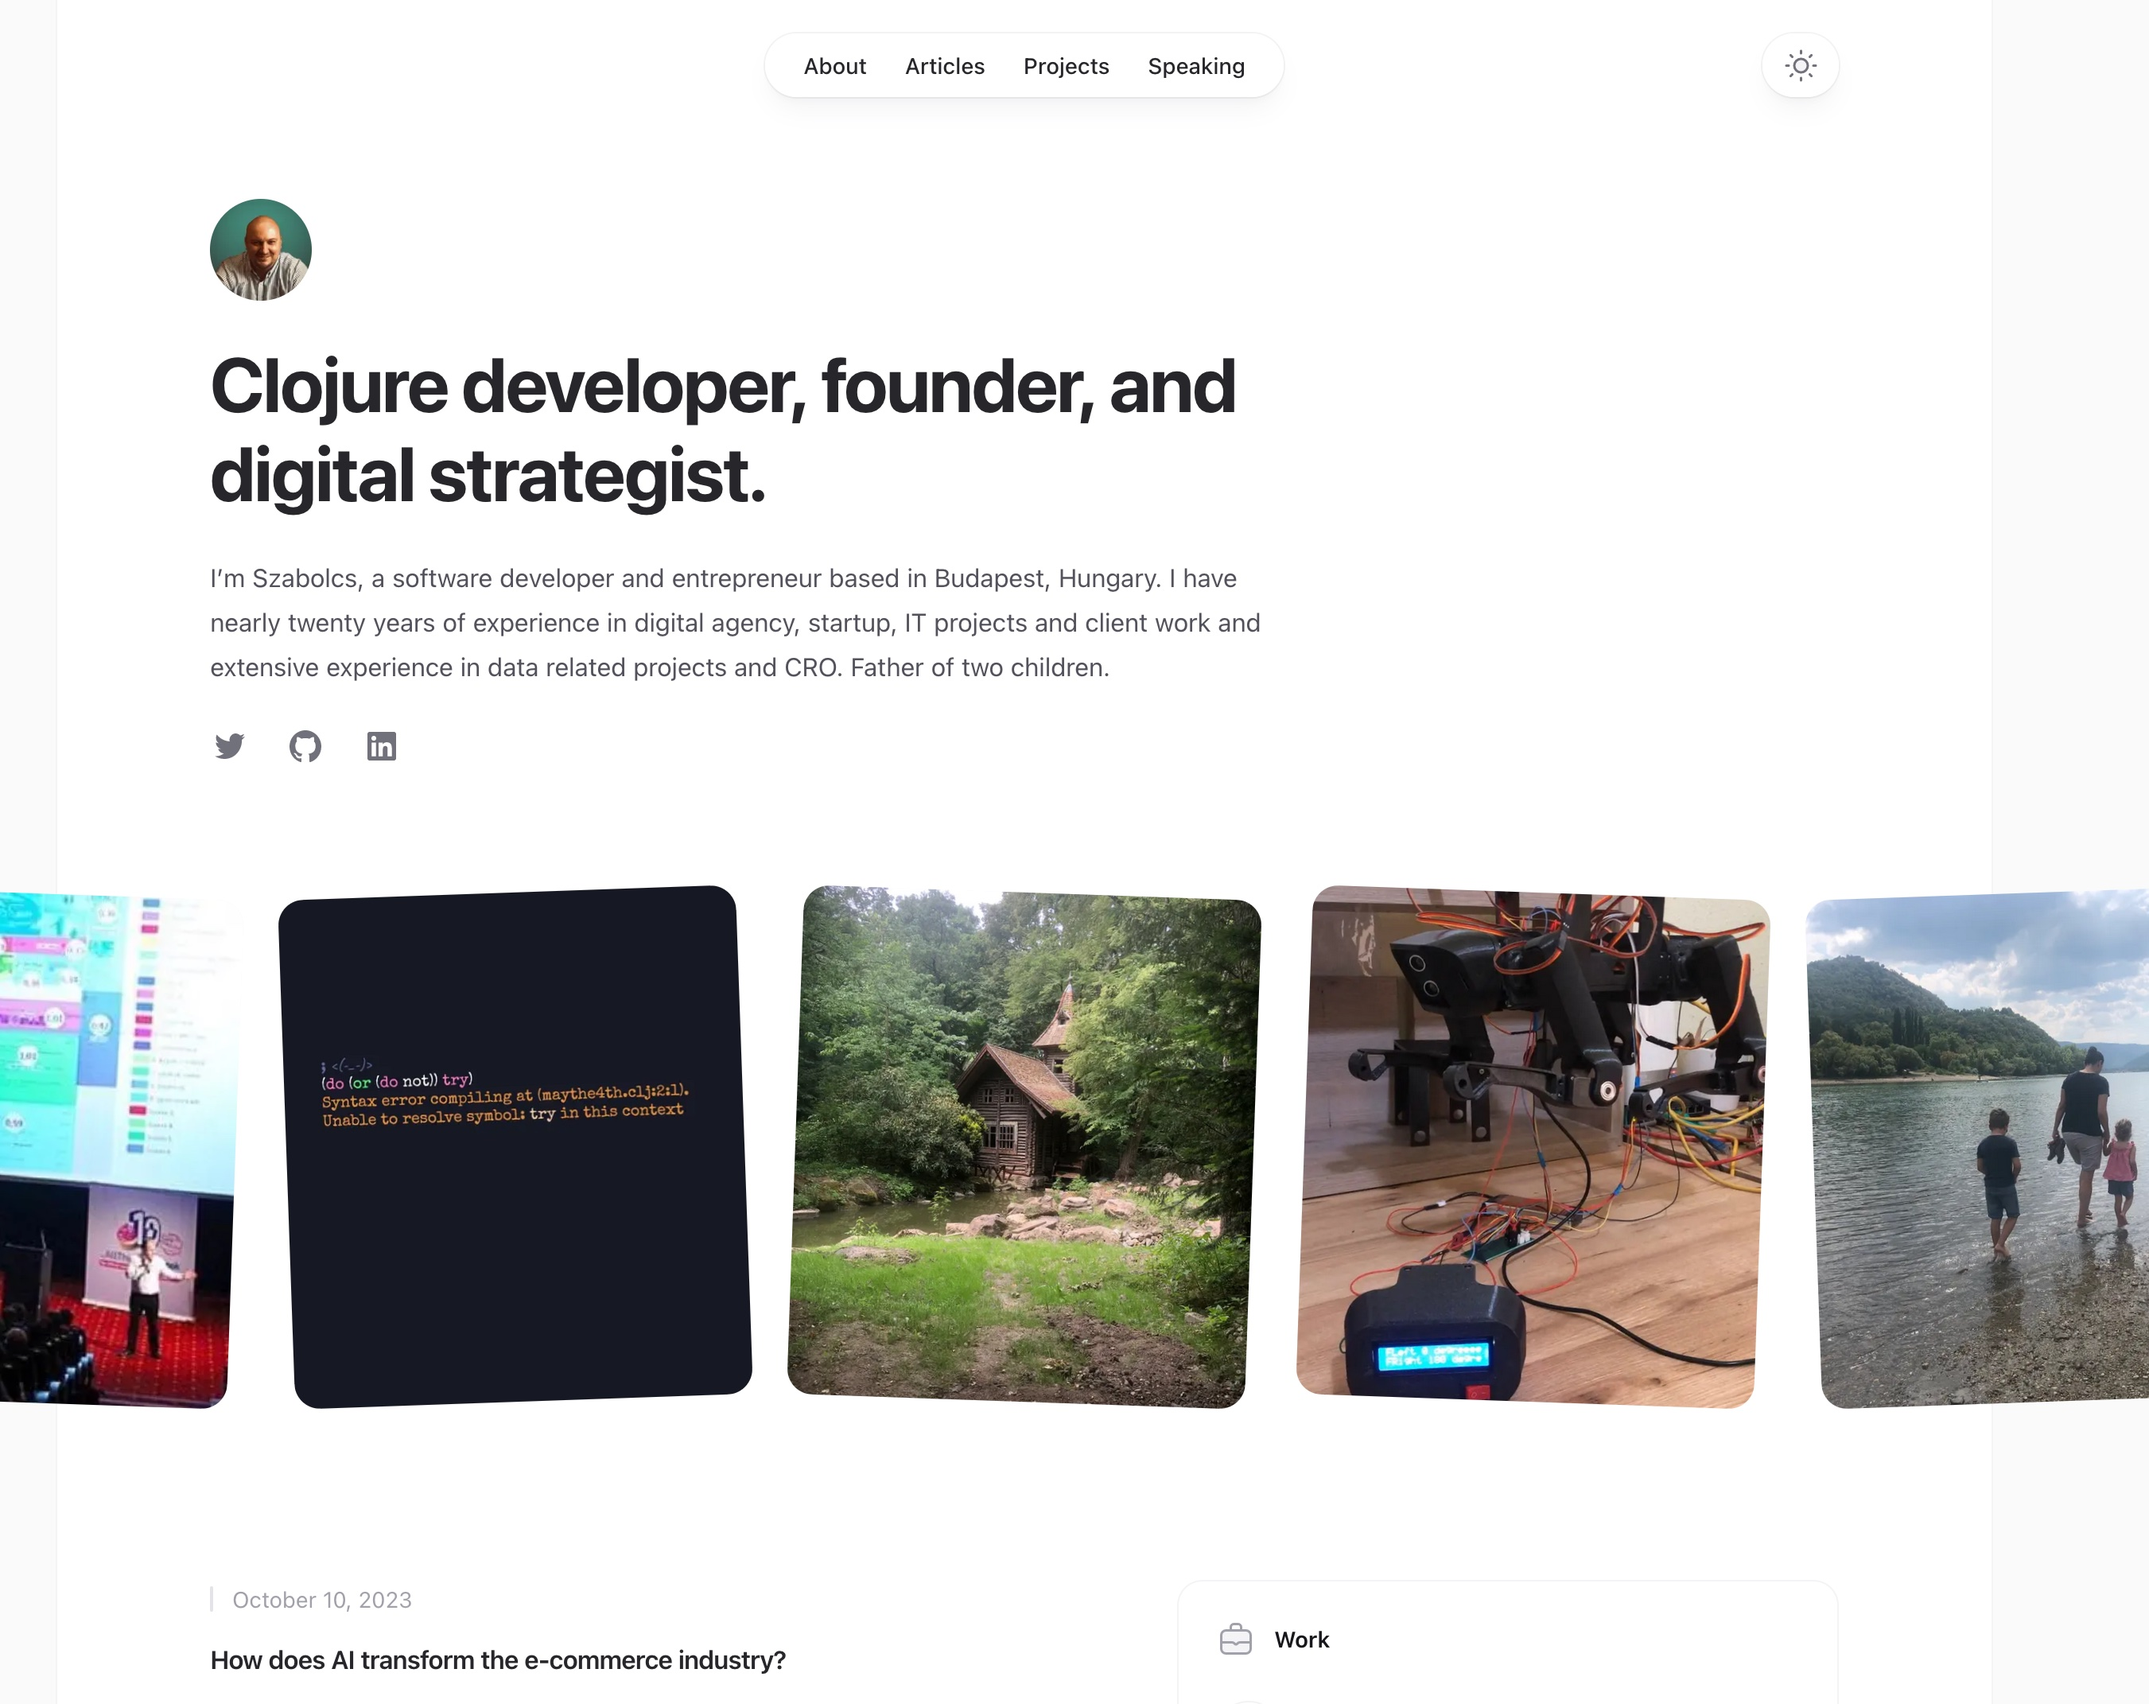
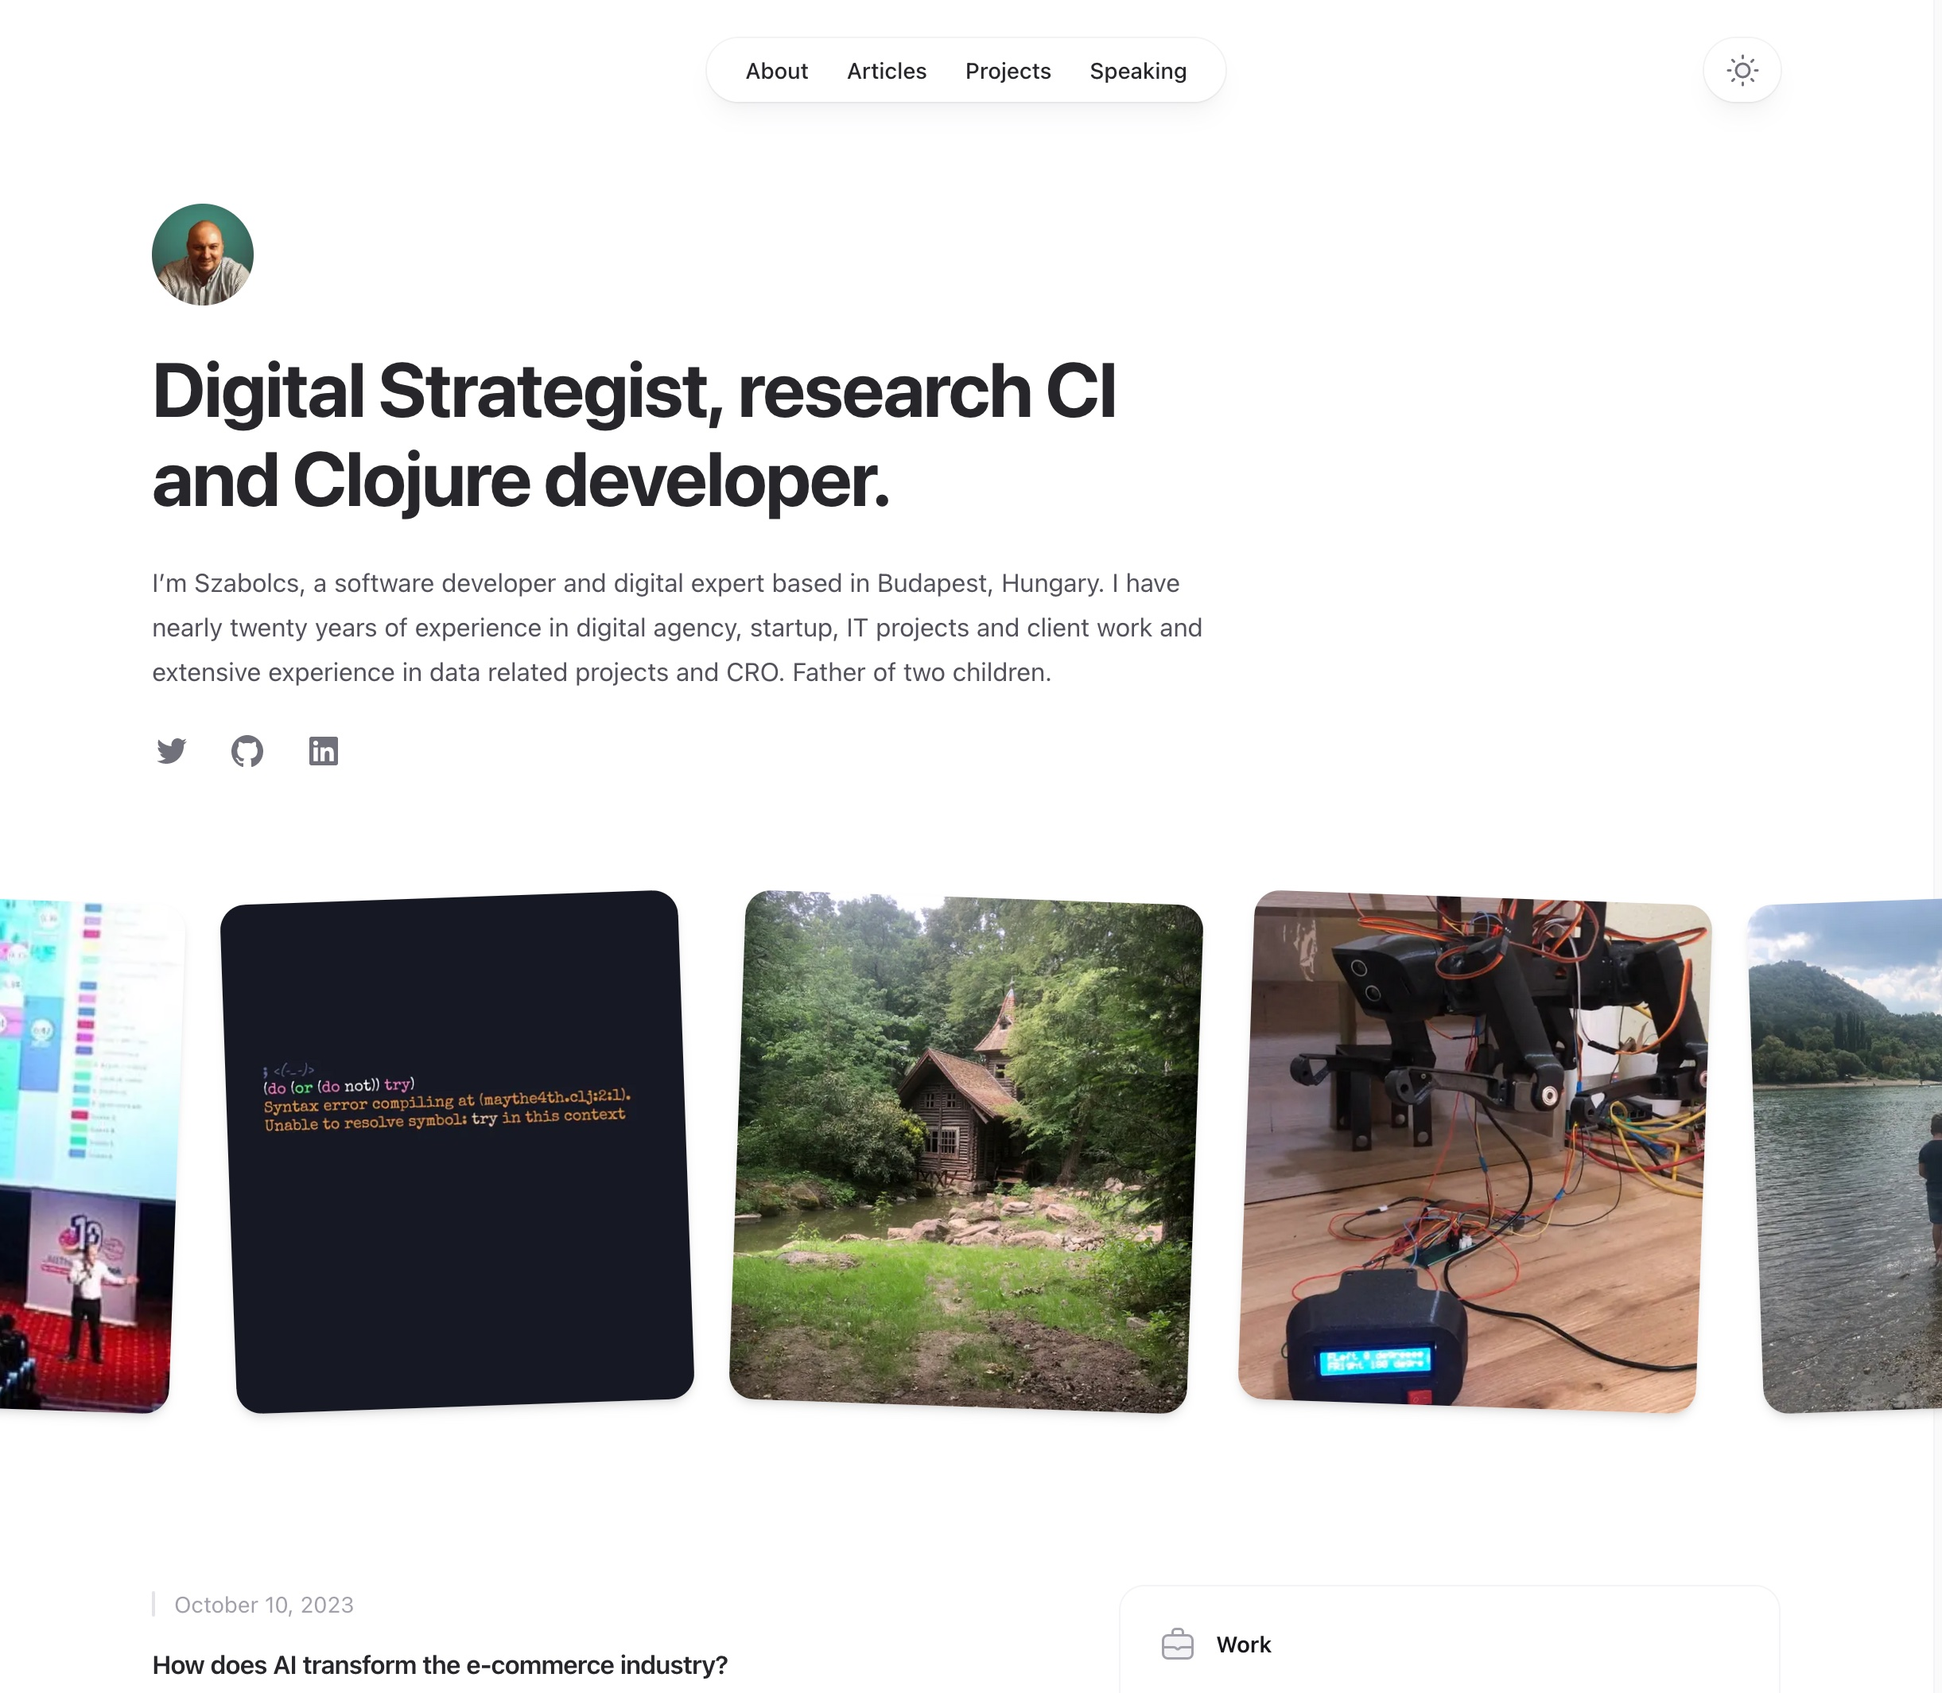
updated content, fix mobile navigation

diff --git a/src/app/speaking/page.tsx b/src/app/speaking/page.tsx
@@ -1,8 +1,11 @@
 import { type Metadata } from 'next'
+import Image, { StaticImageData } from 'next/image'
 
 import { Card } from '@/components/Card'
 import { Section } from '@/components/Section'
 import { SimpleLayout } from '@/components/SimpleLayout'
+import croImage from '@/images/photos/cro-book.png'
+
 
 function SpeakingSection({
   children,
@@ -40,6 +43,42 @@ function Appearance({
   )
 }
 
+function Books({
+  title,
+  description,
+  event,
+  imageSrc,
+  imageAlt,
+  imageWidth,
+  imageHeight,
+}: {
+  imageSrc: StaticImageData
+  imageAlt: string
+  imageWidth: number
+  imageHeight: number
+  title: string
+  description: string
+  event: string
+}) {
+  return (
+    <Card as="article">
+      <Card.Title as="h3" href="#">
+      {title}
+      </Card.Title>
+      <Card.Eyebrow decorate>{event}</Card.Eyebrow>
+      <Card.Description>{description}</Card.Description>
+      <Card.Image
+        src={imageSrc}
+        alt={imageAlt}
+        width={imageWidth}
+        height={imageHeight}
+        className="hover:opacity-100 opactity-100  w-3/4 h-auto dark:bg-transparent"
+      />
+    </Card>
+  )
+}
+
+
 export const metadata: Metadata = {
   title: 'Speaking',
   description:
@@ -62,12 +101,33 @@ export default function Speaking() {
             cta="Presentation link"
           />
           <Appearance
+            href="https://www.linkedin.com/in/baaderszabolcs/overlay/50329258/single-media-viewer/?profileId=ACoAAAIg294BADH1-YYSAMWke7ZVc7Zd-PAkdqE"
+            title="Conversion Optimization"
+            description="60 slides about CRO basics and strategy, build up large databases"
+            event="Email Marketing Meetup 2014"
+            cta="Presentation link/ LinkedIn"
+          />
+          <Appearance
             href="https://szinapszis.hu/hu/hirek/kutatas-2012-konferencia"
             title="Automatic, research-free web usability"
             description="They say that if you’re not embarassed by your first version, you’re doing it wrong. Well when you’re selling DIY space shuttle kits it turns out it’s a bit more complicated."
             event="Kutatas 2012"
             cta="Conference Summary page"
           />
+        </SpeakingSection>
+        </div>
+
+        <div className="space-y-20 pt-10 mt-10 bg-white dark:bg-transparent">
+        <SpeakingSection title="Books"> 
+          <Books
+            title="Conversion Optimization Book"
+            description="The first Hungarian book on conversion optimization techniques, featuring media files and eye-tracking results, is now outdated and no longer accessible."
+            event="Bader Szabolcs, 2014, 150 pages + CD"
+            imageSrc={croImage}
+            imageAlt="Conversion Optimization Book"
+            imageWidth={533} 
+            imageHeight={357} 
+          /> 
         </SpeakingSection>
         
       </div>

diff --git a/src/components/Card.tsx b/src/components/Card.tsx
@@ -1,5 +1,15 @@
 import Link from 'next/link'
 import clsx from 'clsx'
+import Image, { StaticImageData } from 'next/image'
+
+interface CardImageProps {
+  src: StaticImageData; 
+  alt: string; 
+  className?: string; 
+  width: number | `${number}`;
+  height: number | `${number}`;
+}
+
 
 function ChevronRightIcon(props: React.ComponentPropsWithoutRef<'svg'>) {
   return (
@@ -39,7 +49,7 @@ Card.Link = function CardLink({
 }: React.ComponentPropsWithoutRef<typeof Link>) {
   return (
     <>
-      <div className="absolute -inset-x-4 -inset-y-6 z-0 scale-95 bg-zinc-50 opacity-0 transition group-hover:scale-100 group-hover:opacity-100 dark:bg-zinc-800/50 sm:-inset-x-6 sm:rounded-2xl" />
+      <div className="absolute -inset-x-4 -inset-y-6 z-1 scale-95 bg-zinc-50 opacity-0 transition group-hover:scale-100 group-hover:opacity-100 dark:bg-zinc-800/50 sm:-inset-x-6 sm:rounded-2xl" />
       <Link {...props}>
         <span className="absolute -inset-x-4 -inset-y-6 z-20 sm:-inset-x-6 sm:rounded-2xl" />
         <span className="relative z-10">{children}</span>
@@ -47,6 +57,33 @@ Card.Link = function CardLink({
     </>
   )
 }
+
+
+Card.Image = function CardImage({
+  src,
+  alt,
+  width,
+  height,
+  className,
+  ...props
+}: CardImageProps) {
+  return (
+    <div className={clsx("z-0 lg:pl-20", className)}>
+      <div className="hover:opacity-100 opactity-100 max-w-xs px-2.5 lg:max-w-none">
+        <Image
+          src={src}
+          alt={alt}
+          width={width}
+          height={height}
+          className="rounded-2x  object-cover dark:bg-transparent mt-7"
+          {...props} // Spread any other image-specific props
+        />
+      </div>
+    </div>
+  )
+}
+
+
 
 Card.Title = function CardTitle<T extends React.ElementType = 'h2'>({
   as,

diff --git a/src/app/about/page.tsx b/src/app/about/page.tsx
@@ -80,7 +80,7 @@ export default function About() {
             My expertise spans across data analytics and Conversion Rate Optimization (CRO), with a distinct ability to bridge communication between developers and the business realm. My development technology stack is rooted in Clojure and Python, showcasing my technical acumen in the field.
             </p>
             <p>
-            I am also very interested in something called Artificial Intelligence (AI), which is like teaching computers to think and learn like humans. It&apos;s amazing to see how AI can help online shops sell more products and understand what customers like and other parts of this field.
+            Since 2016, there has been a significant evolution in a field known as Artificial Intelligence (AI), particularly in developing what may be termed real intelligence. For example AI evolve to collaborate more effectively with humans, autonomy, sophisticated decision making. It is fascinating to consider the progress in AI that contributes to various sectors.
             </p>
             <p>
             I love thinking of new ways to solve problems, making rough sketches of ideas (that&apos;s called prototyping), and seeing those ideas come to life. It&apos;s all about helping these small and big companies find their way to success, and it feels great to see them thrive!

diff --git a/src/app/page.tsx b/src/app/page.tsx
@@ -247,7 +247,7 @@ function Photos() {
           <div
             key={image.src}
             className={clsx(
-              'relative aspect-[9/10] w-44 flex-none overflow-hidden rounded-xl bg-zinc-100 dark:bg-zinc-800 sm:w-72 sm:rounded-2xl',
+              'relative aspect-[9/10] w-44 flex-none overflow-hidden rounded-xl bg-zinc-100 dark:bg-zinc-800 sm:w-72 sm:rounded-2xl hover:-translate-y-1 hover:shadow-lg shadow-md hover:transition easy-in-out hover:duration-300',
               rotations[imageIndex % rotations.length],
             )}
           >
@@ -272,7 +272,7 @@ export default async function Home() {
       <Container className="mt-9">
         <div className="max-w-2xl">
           <h1 className="text-4xl font-bold tracking-tight text-zinc-800 dark:text-zinc-100 sm:text-5xl">
-            Digital Strategist, AI researcher and Clojure developer.
+            Digital Strategist, research CI and Clojure developer.
           </h1>
           <p className="mt-6 text-base text-zinc-600 dark:text-zinc-400">
             I’m Szabolcs, a software developer and digital expert based in Budapest, Hungary. 

diff --git a/src/app/projects/page.tsx b/src/app/projects/page.tsx
@@ -9,7 +9,7 @@ import logoHelioStream from '@/images/logos/helio-stream.svg'
 import logoOpenShuttle from '@/images/logos/open-shuttle.svg'
 import logoPlanetaria from '@/images/logos/planetaria.svg'
 import { ChevronRightIcon } from '@heroicons/react/20/solid'
-import referencesImage from '@/images/logos/references.png'
+import referencesImage from '@/images/logos/references.jpg'
 
 const projects = [
   {
@@ -73,7 +73,7 @@ export default function Projects() {
             <Image
               src={referencesImage}
               alt=""
-              className="rounded-sm bg-zinc-100 dark:bg-zinc-800"
+              className="mt-5 rounded-md bg-zinc-100 dark:bg-zinc-800 hover:-translate-y-0.5 hover:transition ease-in-out hover:duration-300"
             />
           </div>
     </SimpleLayout>

diff --git a/src/app/articles/page.tsx b/src/app/articles/page.tsx
@@ -45,8 +45,8 @@ export default async function ArticlesIndex() {
 
   return (
     <SimpleLayout
-      title="Transofrming teams, growth strategies, and the Clojure development."
-      intro="All of my long-form thoughts on programming, leadership, product design, and more, collected in chronological order. (I am working on uploading all my old content here.)"
+      title="Growth strategies, AI and the Clojure development"
+      intro="All of my long-form thoughts on artifical intelligence, programming, digital strategy, product design, and more, collected in chronological order. (I am working on uploading all my old content here.)"
     >
       
       <div className="md:border-l md:border-zinc-100 md:pl-6 md:dark:border-zinc-700/40">

diff --git a/src/components/Header.tsx b/src/components/Header.tsx
@@ -136,7 +136,6 @@ function MobileNavigation(
                 <MobileNavItem href="/articles">Articles</MobileNavItem>
                 <MobileNavItem href="/projects">Projects</MobileNavItem>
                 <MobileNavItem href="/speaking">Speaking</MobileNavItem>
-                <MobileNavItem href="/uses">Uses</MobileNavItem>
               </ul>
             </nav>
           </Popover.Panel>
